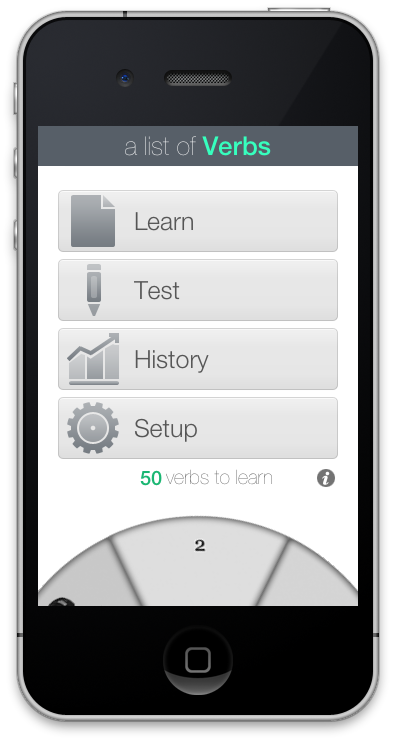
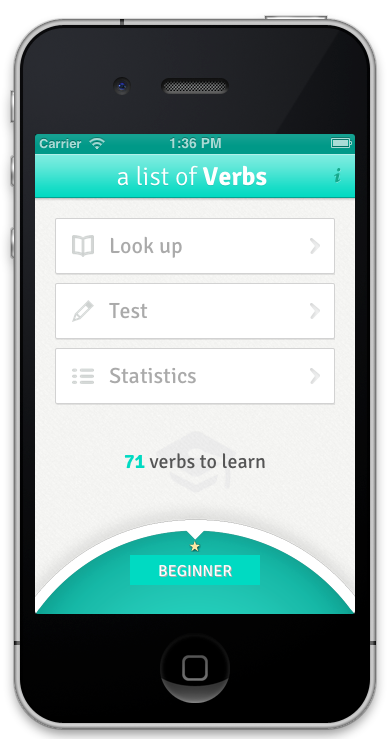
screenshots and readme info updated

diff --git a/README.md b/README.md
@@ -32,15 +32,13 @@ You can contact us at:
 * OR - v0.9.2e App badge icon for pending/failed elements. Experimental TableView with SearchDisplayControler (11/1/2013)
 * v0.9.3e New UI layout (16/1/2013)
 * v0.9.5  New UI look&feel. Simplified layout. Better History info. Full Spanish translation. (1/2/2013)
+* v1.0 - submitted version to the App Store (8/2/2013)
 
 ## Screenshot
-![Screenshot](https://raw.github.com/rbarbera/irregularverbs/master/screenshot1.png)
-![Screenshot](https://raw.github.com/rbarbera/irregularverbs/master/screenshot2.png)
-![Screenshot](https://raw.github.com/rbarbera/irregularverbs/master/screenshot2b.png)
-![Screenshot](https://raw.github.com/rbarbera/irregularverbs/master/screenshot3.png)
-![Screenshot](https://raw.github.com/rbarbera/irregularverbs/master/screenshot4.png)
-![Screenshot](https://raw.github.com/rbarbera/irregularverbs/master/screenshot5.png)
-![Screenshot](https://raw.github.com/rbarbera/irregularverbs/master/screenshot6.png)
-![Screenshot](https://raw.github.com/rbarbera/irregularverbs/master/screenshot7.png)
-![Screenshot](https://raw.github.com/rbarbera/irregularverbs/master/screenshot8.png)
-![Screenshot](https://raw.github.com/rbarbera/irregularverbs/master/screenshot9.png)
+![Screenshot](https://raw.github.com/osrufung/irregularverbs/master/screenshot1.png)
+![Screenshot](https://raw.github.com/osrufung/irregularverbs/master/screenshot2.png)
+![Screenshot](https://raw.github.com/osrufung/irregularverbs/master/screenshot3.png)
+![Screenshot](https://raw.github.com/osrufung/irregularverbs/master/screenshot4.png)
+![Screenshot](https://raw.github.com/osrufung/irregularverbs/master/screenshot5.png)
+![Screenshot](https://raw.github.com/osrufung/irregularverbs/master/screenshot6.png)
+
